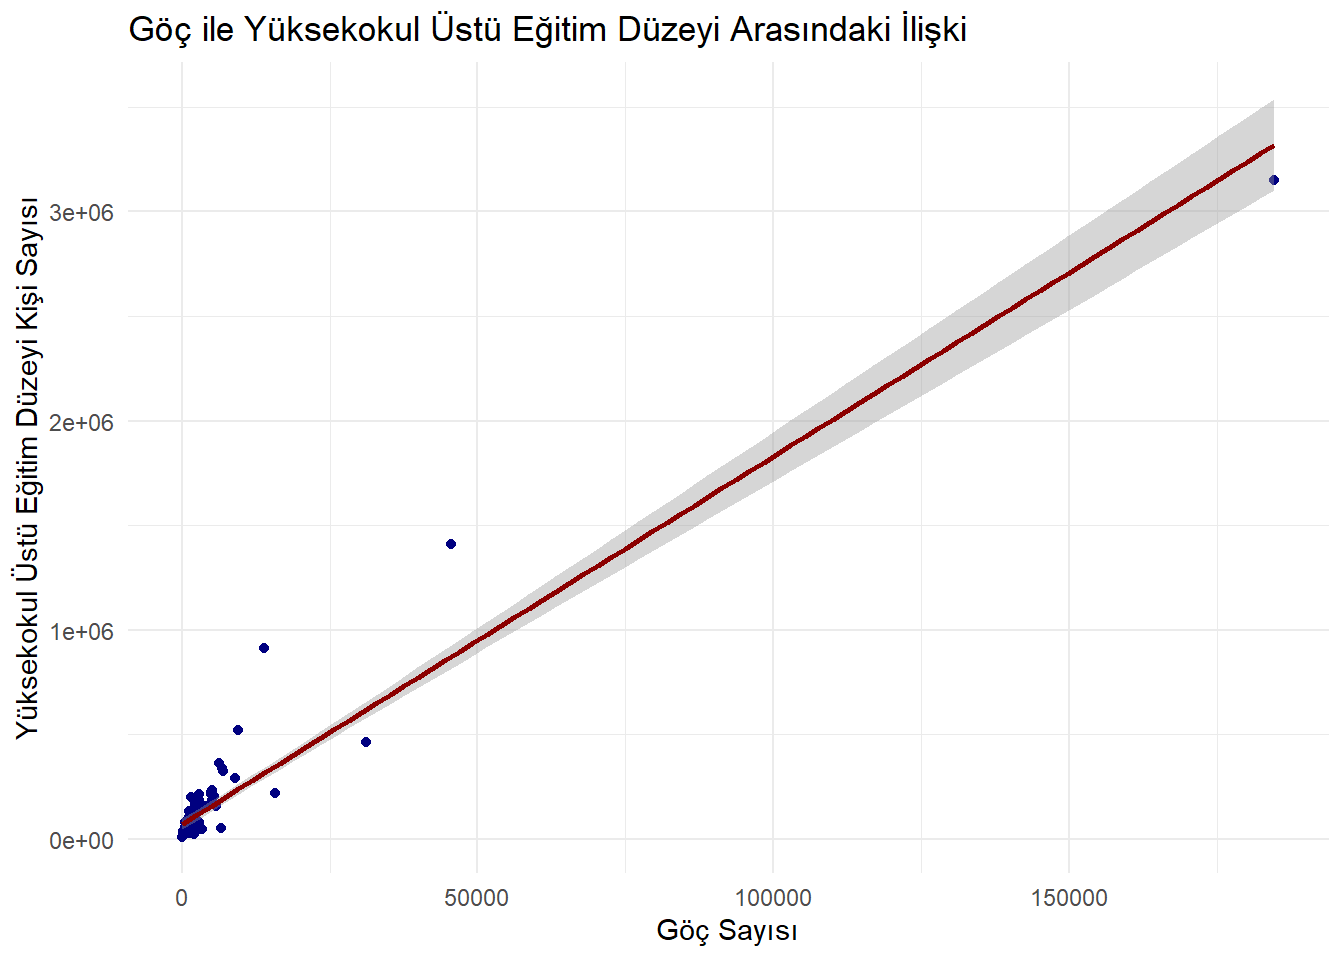
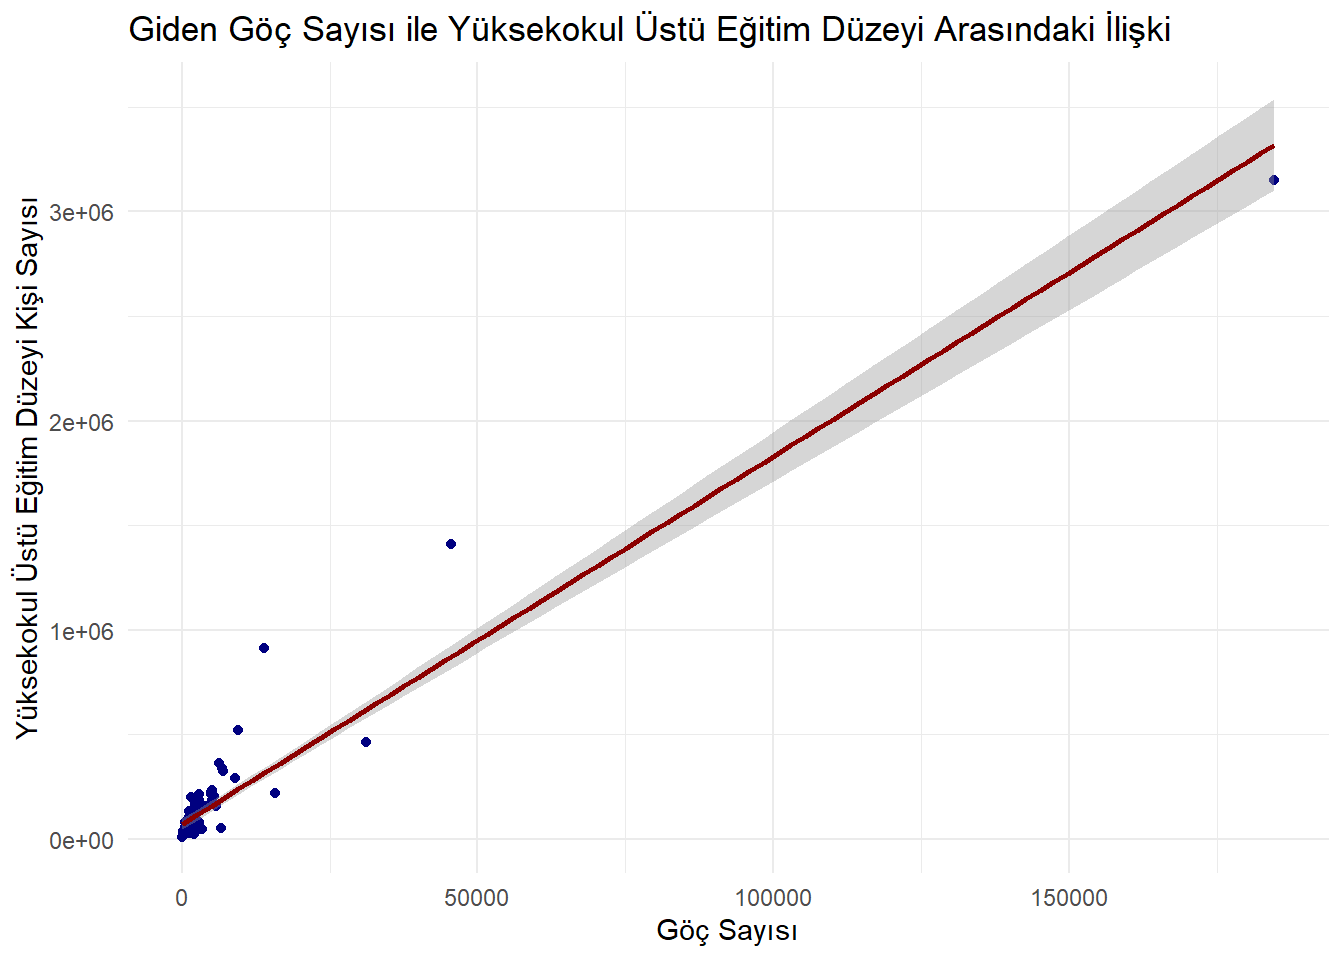
project

Changed region(s): [[0.125, 0.0, 0.875, 0.0625]]

diff --git a/docs/project.html b/docs/project.html
@@ -189,7 +189,7 @@ pre > code.sourceCode > span > a:first-child::before { text-decoration: underlin
   <li><a href="#vii-yıllara-göre-yakalanan-düzensiz-göçmenlerin-dağılımı" id="toc-vii-yıllara-göre-yakalanan-düzensiz-göçmenlerin-dağılımı" class="nav-link" data-scroll-target="#vii-yıllara-göre-yakalanan-düzensiz-göçmenlerin-dağılımı"><em>VII) Yıllara Göre Yakalanan Düzensiz Göçmenlerin Dağılımı:</em></a></li>
   <li><a href="#viii-iller-bazında-eğitim-düzeyi-ve-göç-arasındaki-ilişki" id="toc-viii-iller-bazında-eğitim-düzeyi-ve-göç-arasındaki-ilişki" class="nav-link" data-scroll-target="#viii-iller-bazında-eğitim-düzeyi-ve-göç-arasındaki-ilişki"><em>VIII) İller Bazında Eğitim Düzeyi ve Göç ArasındaKİ İlişki:</em></a></li>
   <li><a href="#ix-uluslararası-göç-istatistiği-ile-gayrisafi-yurt-içi-hasıla-arasındaki-ilişki" id="toc-ix-uluslararası-göç-istatistiği-ile-gayrisafi-yurt-içi-hasıla-arasındaki-ilişki" class="nav-link" data-scroll-target="#ix-uluslararası-göç-istatistiği-ile-gayrisafi-yurt-içi-hasıla-arasındaki-ilişki"><em>IX) Uluslararası Göç İstatistiği ile Gayrisafi Yurt İçi Hasıla Arasındaki İlişki:</em></a></li>
-  <li><a href="#ix-göç-oranına-göre-illeri-kümeleme" id="toc-ix-göç-oranına-göre-illeri-kümeleme" class="nav-link" data-scroll-target="#ix-göç-oranına-göre-illeri-kümeleme"><em>IX) Göç Oranına Göre İlleri Kümeleme:</em></a></li>
+  <li><a href="#x-göç-oranına-göre-illeri-kümeleme" id="toc-x-göç-oranına-göre-illeri-kümeleme" class="nav-link" data-scroll-target="#x-göç-oranına-göre-illeri-kümeleme"><em>X) Göç Oranına Göre İlleri Kümeleme:</em></a></li>
   </ul></li>
   </ul></li>
   <li><a href="#sonuç-ve-çıkarımlar" id="toc-sonuç-ve-çıkarımlar" class="nav-link" data-scroll-target="#sonuç-ve-çıkarımlar"><span style="color:darkblue">4. Sonuç ve Çıkarımlar</span> <img src="images/clipboard-1698656164.png" class="img-fluid" width="35"></a></li>
@@ -233,6 +233,7 @@ pre > code.sourceCode > span > a:first-child::before { text-decoration: underlin
 <li><p>Türkiye’nin maruz kaldığı uluslararası göç hareketliliğinin büyüklük ve nitelik açısından analiz edilmesi</p></li>
 <li><p>Yüksekokul ve üzeri eğitime sahip kişi sayısı ile göç sayısı arasındaki ilişkinin tespiti</p></li>
 <li><p>İl bazında Gayrisafi Yurt İçi Hasıla ile göç sayısı arasındaki ilişkinin tespiti</p></li>
+<li><p>Net göç oranına göre illerin kümelenmesi</p></li>
 </ul>
 </section>
 <section id="veri" class="level1">
@@ -280,6 +281,7 @@ pre > code.sourceCode > span > a:first-child::before { text-decoration: underlin
 <h1 width="23" height="23"><span style="color:darkblue">3. Analiz</span> <img src="images/clipboard-355426313.png" class="img-fluid" width="23"></h1>
 <p>Türkiye’deki mevcut durum tespit edilmiştir.</p>
 <p>Zaman serisi analizi ile kaçak göçmen sayısının tahmini yapılmıştır.</p>
+<p>Kümeleme ile göç oranına göre iller gruplandırılmıştır.</p>
 <p>Regresyon analizi ile göç hareketliliği ile GSYH ve eğitim düzeyi arasındaki ilişki belirlenmiştir.</p>
 <section id="veri-analizi" class="level2" style="color:brown">
 <h2 style="color:brown" class="anchored" data-anchor-id="veri-analizi"><em>3.1. Veri Analizi</em></h2>
@@ -672,7 +674,7 @@ F-statistic: 826.9 on 1 and 79 DF,  p-value: &lt; 2.2e-16</code></pre>
 <div class="sourceCode cell-code" id="cb27"><pre class="sourceCode r code-with-copy"><code class="sourceCode r"><span id="cb27-1"><a href="#cb27-1" aria-hidden="true" tabindex="-1"></a><span class="fu">ggplot</span>(illeregoreegitim, <span class="fu">aes</span>(<span class="at">x =</span> giden, <span class="at">y =</span> yuksekokul)) <span class="sc">+</span></span>
 <span id="cb27-2"><a href="#cb27-2" aria-hidden="true" tabindex="-1"></a>  <span class="fu">geom_point</span>(<span class="at">color =</span> <span class="st">"navy"</span>) <span class="sc">+</span>                  </span>
 <span id="cb27-3"><a href="#cb27-3" aria-hidden="true" tabindex="-1"></a>  <span class="fu">geom_smooth</span>(<span class="at">method =</span> <span class="st">"lm"</span>, <span class="at">col =</span> <span class="st">"darkred"</span>) <span class="sc">+</span>      </span>
-<span id="cb27-4"><a href="#cb27-4" aria-hidden="true" tabindex="-1"></a>  <span class="fu">labs</span>(<span class="at">title =</span> <span class="st">"Göç ile Yüksekokul Üstü Eğitim Düzeyi Arasındaki İlişki"</span>,</span>
+<span id="cb27-4"><a href="#cb27-4" aria-hidden="true" tabindex="-1"></a>  <span class="fu">labs</span>(<span class="at">title =</span> <span class="st">"Giden Göç Sayısı ile Yüksekokul Üstü Eğitim Düzeyi Arasındaki İlişki"</span>,</span>
 <span id="cb27-5"><a href="#cb27-5" aria-hidden="true" tabindex="-1"></a>       <span class="at">x =</span> <span class="st">"Göç Sayısı"</span>,</span>
 <span id="cb27-6"><a href="#cb27-6" aria-hidden="true" tabindex="-1"></a>       <span class="at">y =</span> <span class="st">"Yüksekokul Üstü Eğitim Düzeyi Kişi Sayısı"</span>) <span class="sc">+</span></span>
 <span id="cb27-7"><a href="#cb27-7" aria-hidden="true" tabindex="-1"></a>  <span class="fu">theme_minimal</span>()                       </span></code><button title="Copy to Clipboard" class="code-copy-button"><i class="bi"></i></button></pre></div>
@@ -752,8 +754,8 @@ F-statistic: 0.2965 on 1 and 79 DF,  p-value: 0.5876</code></pre>
 </div>
 </div>
 </section>
-<section id="ix-göç-oranına-göre-illeri-kümeleme" class="level3" style="color:darkblue">
-<h3 style="color:darkblue" class="anchored" data-anchor-id="ix-göç-oranına-göre-illeri-kümeleme"><em>IX) Göç Oranına Göre İlleri Kümeleme:</em></h3>
+<section id="x-göç-oranına-göre-illeri-kümeleme" class="level3" style="color:darkblue">
+<h3 style="color:darkblue" class="anchored" data-anchor-id="x-göç-oranına-göre-illeri-kümeleme"><em>X) Göç Oranına Göre İlleri Kümeleme:</em></h3>
 <div class="cell">
 <details class="code-fold">
 <summary>Kodu Görmek İçin Tıklayınız.</summary>
@@ -773,10 +775,7 @@ F-statistic: 0.2965 on 1 and 79 DF,  p-value: 0.5876</code></pre>
 <span id="cb33-14"><a href="#cb33-14" aria-hidden="true" tabindex="-1"></a></span>
 <span id="cb33-15"><a href="#cb33-15" aria-hidden="true" tabindex="-1"></a><span class="fu">ggplot</span>(data, <span class="fu">aes</span>(<span class="at">x =</span> goc_orani, <span class="at">y=</span>goc_orani,  <span class="at">color =</span> <span class="fu">as.factor</span>(Cluster))) <span class="sc">+</span></span>
 <span id="cb33-16"><a href="#cb33-16" aria-hidden="true" tabindex="-1"></a>  <span class="fu">geom_point</span>(<span class="at">size =</span> <span class="dv">3</span>) <span class="sc">+</span></span>
-<span id="cb33-17"><a href="#cb33-17" aria-hidden="true" tabindex="-1"></a>  <span class="fu">labs</span>(<span class="at">title =</span> <span class="st">"K-means Kümeleme Analizi Sonuçları"</span>,</span>
-<span id="cb33-18"><a href="#cb33-18" aria-hidden="true" tabindex="-1"></a>       <span class="at">x =</span> <span class="st">"Göç Oranı"</span>,</span>
-<span id="cb33-19"><a href="#cb33-19" aria-hidden="true" tabindex="-1"></a>       <span class="at">y=</span> <span class="st">"Göç Oranı"</span>,</span>
-<span id="cb33-20"><a href="#cb33-20" aria-hidden="true" tabindex="-1"></a>       <span class="at">color =</span> <span class="st">"Küme"</span>)</span></code><button title="Copy to Clipboard" class="code-copy-button"><i class="bi"></i></button></pre></div>
+<span id="cb33-17"><a href="#cb33-17" aria-hidden="true" tabindex="-1"></a>   <span class="fu">geom_text</span>(<span class="fu">aes</span>(<span class="at">label =</span> iller), <span class="at">vjust =</span> <span class="sc">-</span><span class="dv">1</span>, <span class="at">hjust =</span> <span class="fl">0.5</span>, <span class="at">check_overlap =</span> <span class="cn">TRUE</span>, <span class="at">size =</span> <span class="dv">3</span>)</span></code><button title="Copy to Clipboard" class="code-copy-button"><i class="bi"></i></button></pre></div>
 </details>
 <div class="cell-output-display">
 <div>
@@ -784,6 +783,29 @@ F-statistic: 0.2965 on 1 and 79 DF,  p-value: 0.5876</code></pre>
 <p><img src="project_files/figure-html/unnamed-chunk-12-1.png" class="img-fluid figure-img" width="672"></p>
 </figure>
 </div>
+</div>
+<details class="code-fold">
+<summary>Kodu Görmek İçin Tıklayınız.</summary>
+<div class="sourceCode cell-code" id="cb34"><pre class="sourceCode r code-with-copy"><code class="sourceCode r"><span id="cb34-1"><a href="#cb34-1" aria-hidden="true" tabindex="-1"></a>  <span class="fu">labs</span>(<span class="at">title =</span> <span class="st">"K-means Kümeleme Analizi Sonuçları"</span>,</span>
+<span id="cb34-2"><a href="#cb34-2" aria-hidden="true" tabindex="-1"></a>       <span class="at">x =</span> <span class="st">"Göç Oranı"</span>,</span>
+<span id="cb34-3"><a href="#cb34-3" aria-hidden="true" tabindex="-1"></a>       <span class="at">y=</span> <span class="st">"Göç Oranı"</span>,</span>
+<span id="cb34-4"><a href="#cb34-4" aria-hidden="true" tabindex="-1"></a>       <span class="at">color =</span> <span class="st">"Küme"</span>)</span></code><button title="Copy to Clipboard" class="code-copy-button"><i class="bi"></i></button></pre></div>
+</details>
+<div class="cell-output cell-output-stdout">
+<pre><code>$x
+[1] "Göç Oranı"
+
+$y
+[1] "Göç Oranı"
+
+$colour
+[1] "Küme"
+
+$title
+[1] "K-means Kümeleme Analizi Sonuçları"
+
+attr(,"class")
+[1] "labels"</code></pre>
 </div>
 </div>
 </section>
@@ -798,7 +820,8 @@ F-statistic: 0.2965 on 1 and 79 DF,  p-value: 0.5876</code></pre>
 </div>
 <p>Bu çalışma ile Türkiye’nin uluslararası göç istatistiklerinin cinsiyet, yaş aralığı, vatandaşlık ülkesine göre mevcut durumu ortaya konmuştur.</p>
 <p>Ülkemizden giden nüfusun eğitim düzeyi ile ilişkisi araştırılmıştır. Yüksekokul ve üzeri eğitim düzeyine sahip kişilerin giden göç sayısıyla ilişkili olduğu tespit edilmiştir.</p>
-<p>Son olarak, net göç sayısı ve Gayrisafi Yurt İçi Hasıla arasındaki ilişki araştırılmıştır. GSYH ile net göç arasında bir lişki olmadığı tespit edilmiştir.</p>
+<p>Net göç sayısı ve Gayrisafi Yurt İçi Hasıla arasındaki ilişki araştırılmıştır. GSYH ile net göç arasında bir lişki olmadığı tespit edilmiştir.</p>
+<p>Son olarak, göç oranına göre iller kümelenmiştir.</p>
 
 
 </section>
